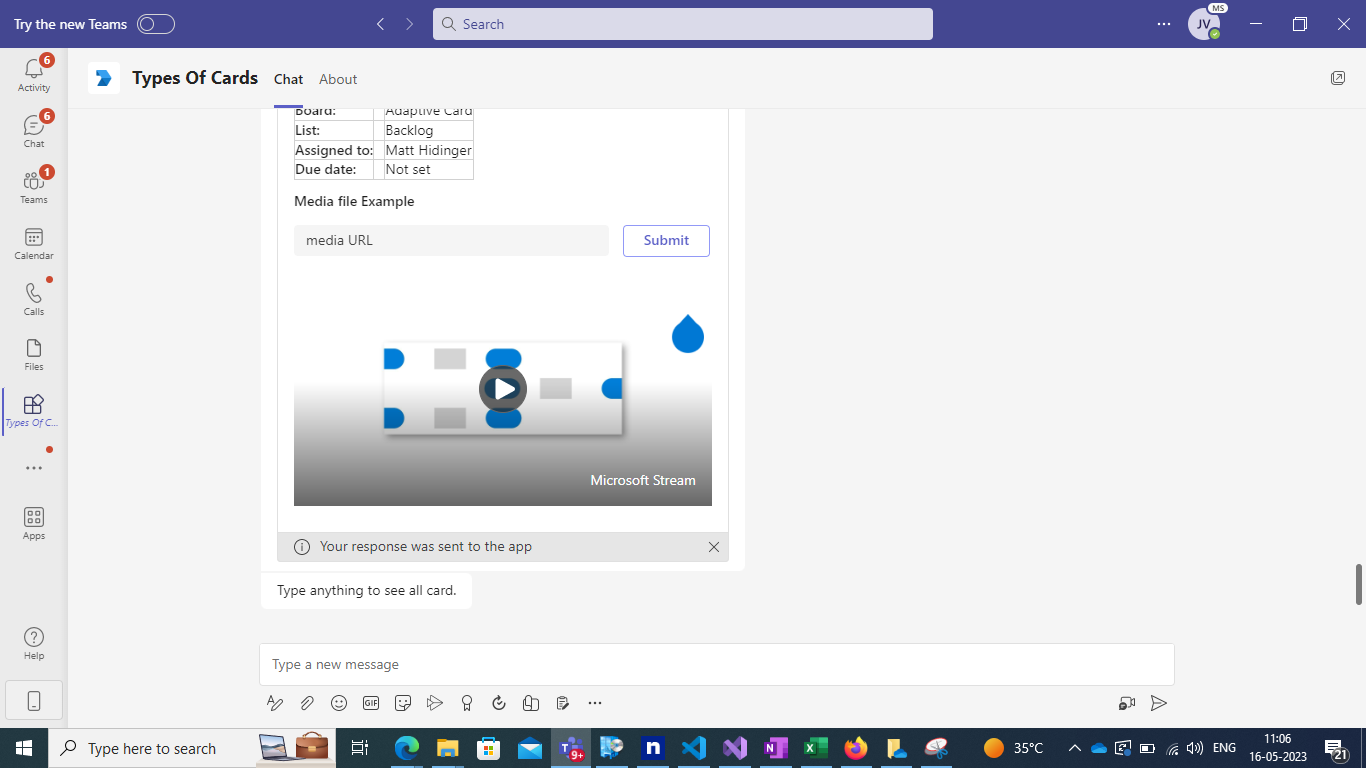
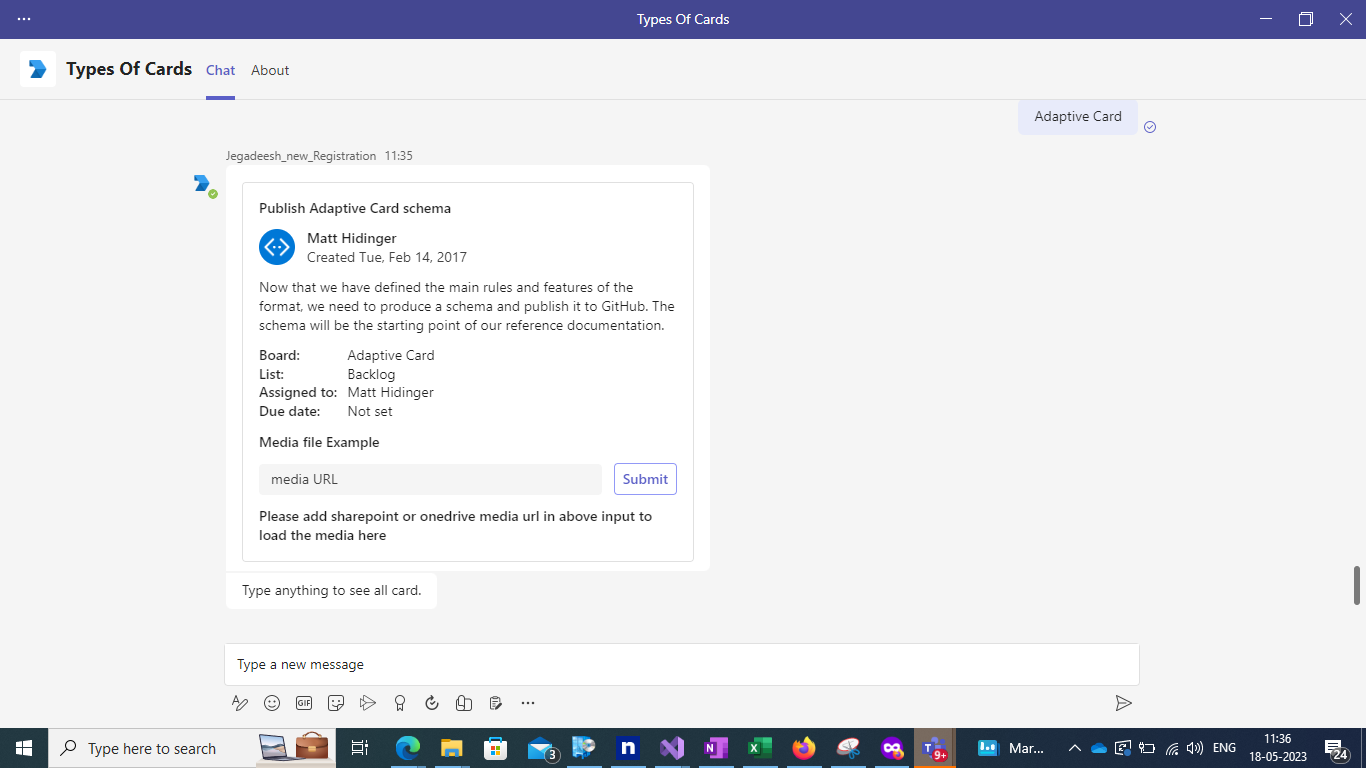
PR feedback fixes

diff --git a/samples/bot-all-cards/csharp/README.md b/samples/bot-all-cards/csharp/README.md
@@ -118,7 +118,7 @@ Please find below demo manifest which is deployed on Microsoft Azure and you can
   - `{{Microsoft-App-Id}}` - Generated from Step 1 is the application app id
   - `{{ Microsoft-App-Password}}` - Generated from Step 1, also referred to as Client secret
   - `{{ Microsoft-App-TenantId }}` - Generated from Step 1 is the tenantId id
-  - `{{ ConnectionName }}` - ConnectionName (OAuth Connection Name)
+  - `{{ ConnectionName }}` - ConnectionName (OAuth Connection Name) 
 
   **Bot OAuth Connection:**
 
@@ -150,6 +150,12 @@ Please find below demo manifest which is deployed on Microsoft Azure and you can
 **Adaptive Card:**
 
 ![AdaptiveCard](BotAllCards/Images/AdaptiveCard.png)
+
+Add media url from sharepoint or onedrive to the text input to get media loaded to the adaptive card. For more information refer [media elements in card.](https://review.learn.microsoft.com/en-us/microsoftteams/platform/task-modules-and-cards/cards/media-elements-in-adaptive-cards?branch=pr-en-us-8333&tabs=desktop) 
+
+![AdaptiveCardMedia](BotAllCards/Images/AdaptiveCardMedia.png)
+
+![AdaptiveCardMedia2](BotAllCards/Images/AdaptiveCardMedia2.png)
 
 **Hero Card:**
 
@@ -187,4 +193,3 @@ To learn more about deploying a bot to Azure, see [Deploy your bot to Azure](htt
 
 - [Types of cards](https://learn.microsoft.com/microsoftteams/platform/task-modules-and-cards/cards/cards-reference#receipt-card)
 - [Create bot connection](https://learn.microsoft.com/azure/bot-service/bot-builder-authentication?view=azure-bot-service-4.0&tabs=userassigned%2Caadv2%2Ccsharp)
-- [Media elements](https://review.learn.microsoft.com/microsoftteams/platform/task-modules-and-cards/cards/media-elements-in-adaptive-cards?branch=pr-en-us-8333&tabs=desktop)
